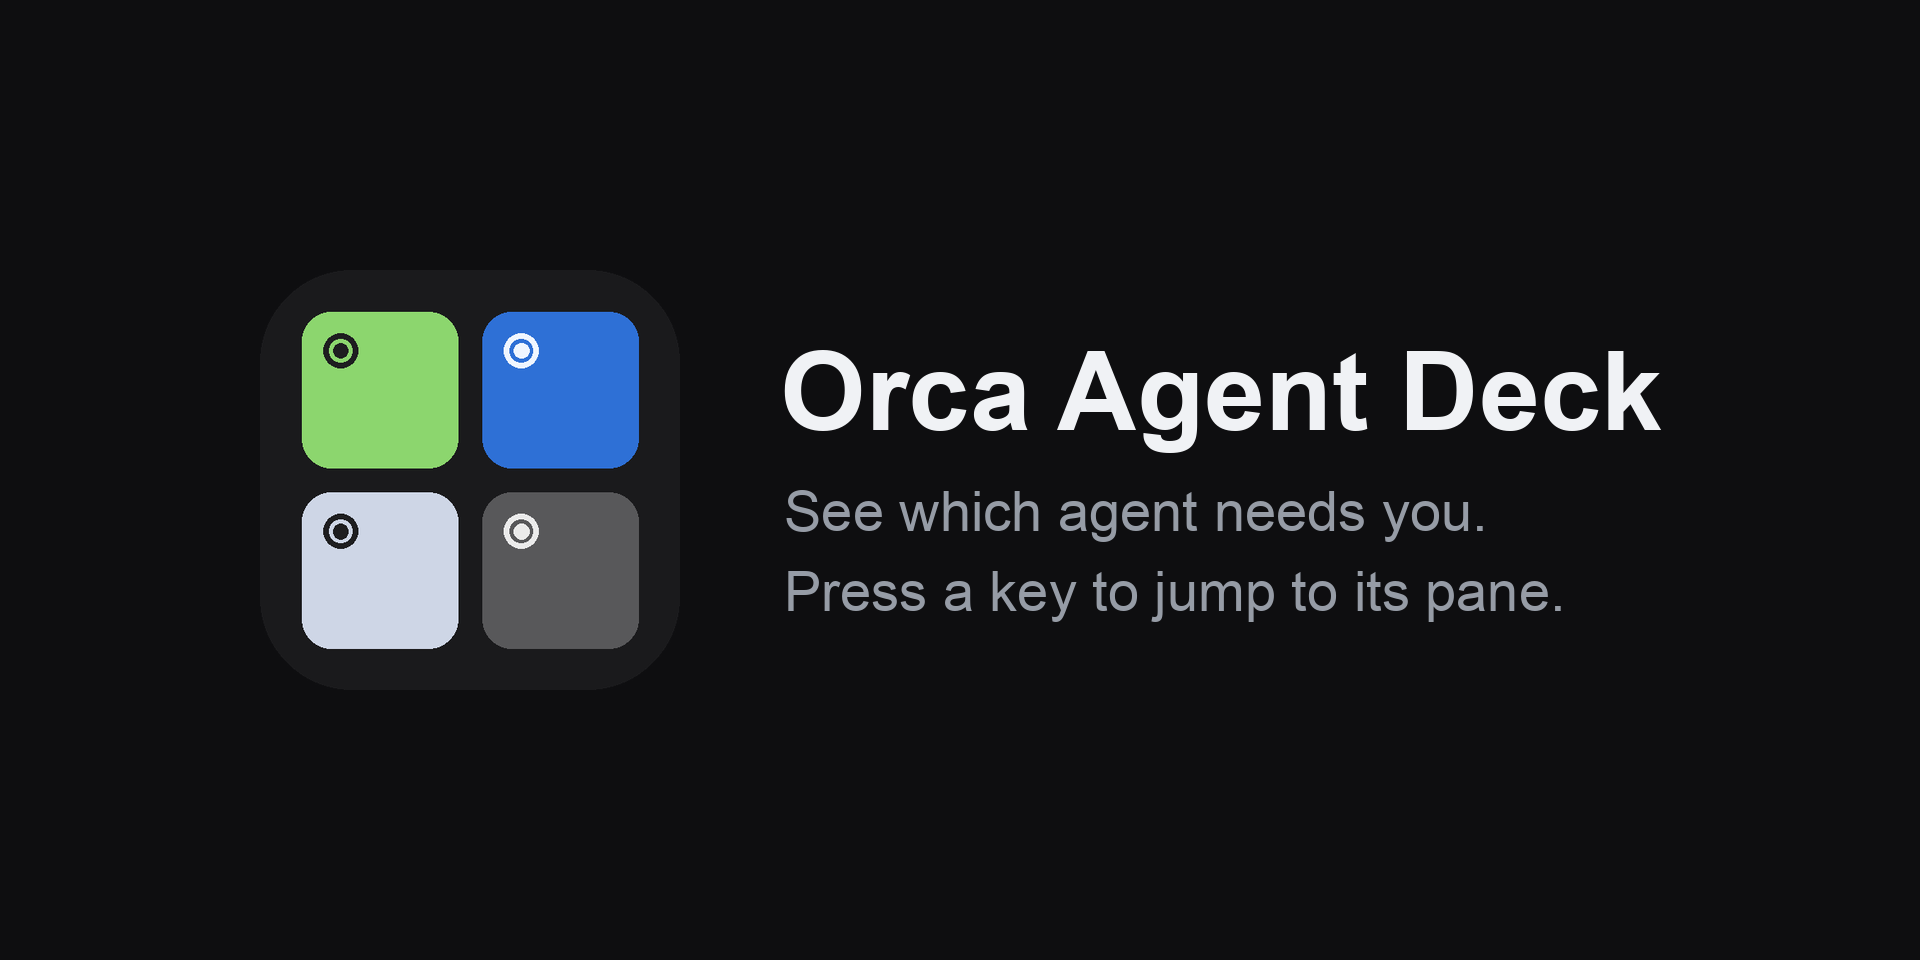
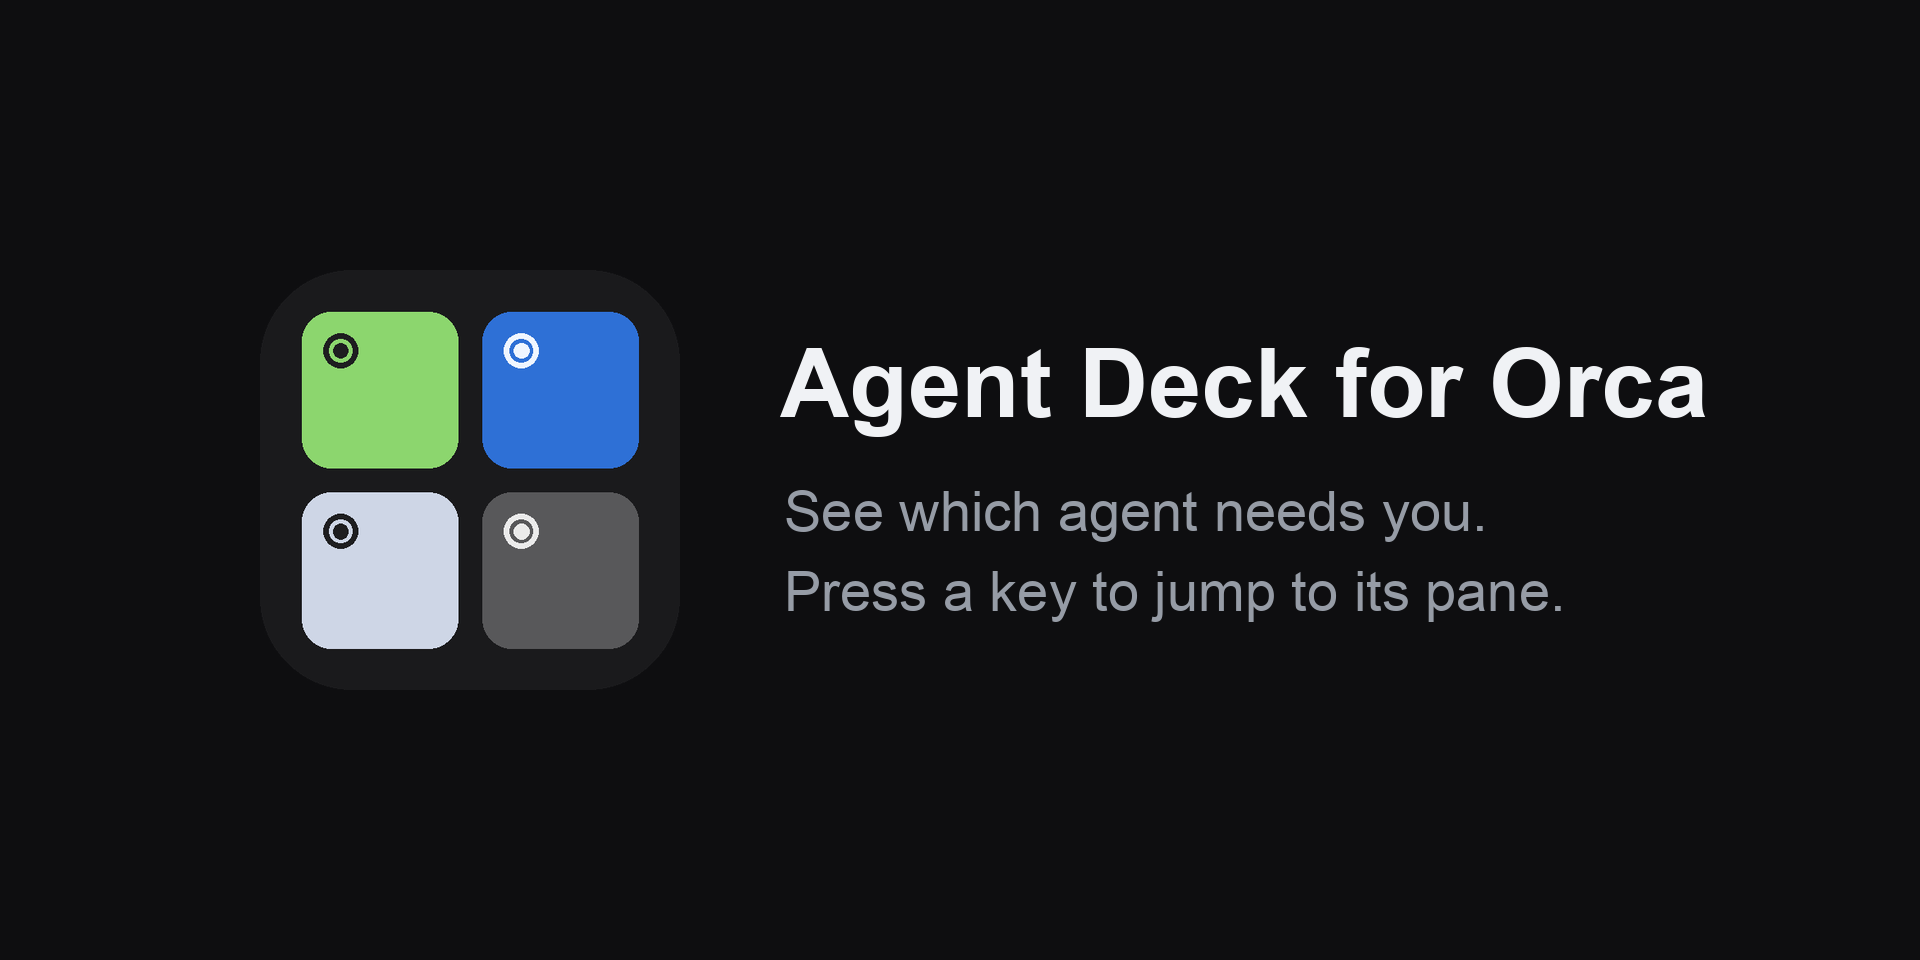
fix: rename to "Agent Deck for Orca"
Orca reserves display names starting with "Orca" for official plugins,
so the directory refused to list "Orca Agent Deck". Plugin ids stay the same.

Changed region(s): [[0.4062, 0.3438, 0.9062, 0.4688]]

diff --git a/packages/core/src/doctor.ts b/packages/core/src/doctor.ts
@@ -119,7 +119,7 @@ export function runChecks(f: DoctorFacts): Check[] {
             id: 'orca-version',
             label: 'Orca version',
             result: 'fail',
-            reason: `Orca ${f.orcaVersion ?? '?'} is older than Orca Agent Deck supports`,
+            reason: `Orca ${f.orcaVersion ?? '?'} is older than Agent Deck for Orca supports`,
             caption: `Orca ${f.orcaVersion ?? ''} too old`.trim(),
             hint: 'Update Orca',
           }
@@ -207,9 +207,9 @@ export function runChecks(f: DoctorFacts): Check[] {
       label: 'Orca plugin',
       result: 'warn',
       reason:
-        'The Orca Agent Deck plugin has not connected; the deck works with slower, polled status',
+        'The Agent Deck for Orca plugin has not connected; the deck works with slower, polled status',
       caption: 'Orca plugin missing',
-      hint: 'Install or enable the Orca Agent Deck plugin in Orca',
+      hint: 'Install or enable the Agent Deck for Orca plugin in Orca',
     });
   } else if (f.orcaPlugin === 'connected' || f.orcaPlugin === 'asleep') {
     checks.push({
@@ -287,7 +287,7 @@ export function runChecks(f: DoctorFacts): Check[] {
               result: 'warn',
               reason: 'No connected device has a Pane slot key on its page',
               caption: 'no pane slots',
-              hint: 'Install the Orca Agent Deck profile, or drag Pane slot keys onto a page',
+              hint: 'Install the Agent Deck for Orca profile, or drag Pane slot keys onto a page',
               fix: { action: 'install-profile', label: 'Install profile' },
             }
           : {

diff --git a/scripts/release.ts b/scripts/release.ts
@@ -109,7 +109,7 @@ function writeNotes(): void {
   mkdirSync(dist, { recursive: true });
   writeFileSync(
     join(dist, 'RELEASE_NOTES.md'),
-    `# Orca Agent Deck ${version}\n\nUnofficial Stream Deck plugin for Orca. Install by double-clicking \`orca-agent-deck-${version}.streamDeckPlugin\`. Verify with \`shasum -a 256 -c SHA256SUMS\`.\n\n${body}\n`,
+    `# Agent Deck for Orca ${version}\n\nUnofficial Stream Deck plugin for Orca. Install by double-clicking \`orca-agent-deck-${version}.streamDeckPlugin\`. Verify with \`shasum -a 256 -c SHA256SUMS\`.\n\n${body}\n`,
   );
   const header =
     '# Changelog\n\nAll notable changes to this project are documented here. Format: [Keep a Changelog](https://keepachangelog.com/en/1.1.0/), versioning: [SemVer](https://semver.org/).\n\n';

diff --git a/packages/adapter-bridge/src/protocol.ts b/packages/adapter-bridge/src/protocol.ts
@@ -3,7 +3,7 @@ import { z } from 'zod';
 /** Bridge protocol v1. Plugin A (in Orca) <-> plugin B (Stream Deck plugin, WebSocket server). */
 export const PROTOCOL_VERSION = 1;
 
-/** Thrown for a message whose major `v` we do not speak; B shows "update Orca Agent Deck plugin". */
+/** Thrown for a message whose major `v` we do not speak; B shows "update Agent Deck for Orca plugin". */
 export class UnsupportedVersionError extends Error {
   readonly received: unknown;
   constructor(received: unknown) {

diff --git a/docs/marketplace/generate.py b/docs/marketplace/generate.py
@@ -44,7 +44,7 @@ def thumbnail(icon):
     d = ImageDraw.Draw(img)
     big = Image.open(SRC / "icon.png").convert("RGBA").resize((420, 420), Image.LANCZOS)
     img.paste(big, (260, 270), big)
-    d.text((780, 330), "Orca Agent Deck", font=font(BOLD, 110), fill=FG)
+    d.text((780, 330), "Agent Deck for Orca", font=font(BOLD, 96), fill=FG)
     d.text((784, 480), "See which agent needs you.", font=font(REGULAR, 56), fill=MUTED)
     d.text((784, 560), "Press a key to jump to its pane.", font=font(REGULAR, 56), fill=MUTED)
     img.save(OUT / "thumbnail-1920x960.png")

diff --git a/docs/install.md b/docs/install.md
@@ -1,4 +1,4 @@
-# Install Orca Agent Deck from the release packages
+# Install Agent Deck for Orca from the release packages
 
 Nothing here needs the repo; only the diagnostics script needs Node 18 or newer.
 
@@ -6,7 +6,7 @@ Nothing here needs the repo; only the diagnostics script needs Node 18 or newer.
 
 About 5 minutes. You need Orca, the Elgato Stream Deck app (or OpenDeck on Linux) and a Stream Deck (see "You need" below).
 
-1. **Stream Deck plugin.** Download `orca-agent-deck-<version>.streamDeckPlugin` from the [latest GitHub release](https://github.com/1am/orca-agent-deck/releases/latest) and double-click it. The Elgato app installs it. On Linux, install the same file from OpenDeck's plugin manager. Drag the Pane, Status and Attention actions from the "Orca Agent Deck" category onto keys.
+1. **Stream Deck plugin.** Download `orca-agent-deck-<version>.streamDeckPlugin` from the [latest GitHub release](https://github.com/1am/orca-agent-deck/releases/latest) and double-click it. The Elgato app installs it. On Linux, install the same file from OpenDeck's plugin manager. Drag the Pane, Status and Attention actions from the "Agent Deck for Orca" category onto keys.
 2. **Orca plugin.** With Orca running, run this in a terminal:
 
    ```sh
@@ -16,14 +16,14 @@ About 5 minutes. You need Orca, the Elgato Stream Deck app (or OpenDeck on Linux
    On Linux use `xdg-open` instead of `open`. Orca opens the plugin page. Read and accept the access consent: the plugin runs its own code, reads agent status and workspaces, and stores its own data. Orca updates it from the same catalog.
 
    Without the terminal: in Orca go to Settings, Plugins, Install from Git, and paste `https://github.com/1am/orca-agent-deck`. Orca installs the newest release tag.
-3. In Orca open the command palette and run "Orca Agent Deck: Show status".
+3. In Orca open the command palette and run "Agent Deck: Show status".
 4. Look at the Status key on the deck. Green "OK" with "live" and the Orca version means everything is connected. Anything else shows a short caption: see [troubleshooting](troubleshooting.md).
 5. Start an agent in an Orca pane. To pin the pane you are in to a key, hold a free Pane key (about 1 second). To pick a pane from a list, or to assign a pane on a paired server, use the key's settings in the Elgato app.
 6. Press a Pane key to focus that pane in Orca.
 
 ### More agents than keys
 
-A plugin cannot change the page of a Stream Deck profile, so Orca Agent Deck has no page keys of its own. Use the Elgato app's built-in Page or Folder navigation keys to add pages. The Attention key counts every pane that needs you, on any page, and adds `+N` for those that are on no key at all, so an urgent pane on another page is never hidden. Press the Attention key to focus the most urgent pane.
+A plugin cannot change the page of a Stream Deck profile, so Agent Deck for Orca has no page keys of its own. Use the Elgato app's built-in Page or Folder navigation keys to add pages. The Attention key counts every pane that needs you, on any page, and adds `+N` for those that are on no key at all, so an urgent pane on another page is never hidden. Press the Attention key to focus the most urgent pane.
 
 Versions and platforms that have been tested: [compatibility](compatibility.md).
 
@@ -33,7 +33,7 @@ Versions and platforms that have been tested: [compatibility](compatibility.md).
 - The Elgato Stream Deck app 7.1 or newer (macOS, Windows) or [OpenDeck](https://github.com/nekename/opendeck) (Linux), and a Stream Deck.
 - Linux only, to raise the Orca window on press: `xdotool` or `wmctrl` (`sudo apt install xdotool`), under an X11 session. Not available on Wayland.
 - macOS 13 or newer, Windows 10 or newer, or Linux (tested on Ubuntu 22.04). Pane raising on press works on macOS, and on Linux under X11 with `xdotool` or `wmctrl` installed.
-- Orca notifications can stay off. Orca Agent Deck does not use them.
+- Orca notifications can stay off. Agent Deck for Orca does not use them.
 
 ## Release files
 
@@ -50,7 +50,7 @@ Unzip `orca-agent-deck-orca-plugin-<version>.zip` into a folder you keep, since 
 
 ## Permissions
 
-Orca Agent Deck needs no macOS permission of its own. It reads Orca through the local runtime socket, finds the `orca` command at fixed paths (no login shell), and raises the Orca window with `open -b` (macOS), which needs nothing. You should see no Files and Folders, Automation, Accessibility or Local Network dialog from it. If you do, please report it with the dialog text.
+Agent Deck for Orca needs no macOS permission of its own. It reads Orca through the local runtime socket, finds the `orca` command at fixed paths (no login shell), and raises the Orca window with `open -b` (macOS), which needs nothing. You should see no Files and Folders, Automation, Accessibility or Local Network dialog from it. If you do, please report it with the dialog text.
 
 ## tmux
 
@@ -58,10 +58,10 @@ If your agents run inside tmux, read `docs/working-with-tmux.md` first. The refe
 
 ## Logs
 
-- Orca plugin: `~/.orca-deck/plugin-a.log`, or `orca plugin logs 1am.agent-deck`. "Orca Agent Deck: Show status" shows a one-line summary as a toast and writes the details to the log. Orca's Logs pane in the plugin settings is read once when opened and does not refresh.
+- Orca plugin: `~/.orca-deck/plugin-a.log`, or `orca plugin logs 1am.agent-deck`. "Agent Deck: Show status" shows a one-line summary as a toast and writes the details to the log. Orca's Logs pane in the plugin settings is read once when opened and does not refresh.
 - Stream Deck plugin: `~/Library/Application Support/com.elgato.StreamDeck/Plugins/pl.1am.orca-agent-deck.sdPlugin/logs/` (`pl.1am.orca-agent-deck.0.log` is the newest). `~/Library/Logs/ElgatoStreamDeck/` holds only the Elgato app's own log.
 - When reporting a problem, run `node collect-diagnostics.mjs` (from the release files; in a clone `pnpm diagnostics`) and attach the file it writes. It collects versions and both plugin logs with tokens, home paths and e-mail addresses removed.
 
 ## Uninstall
 
-Elgato app: Preferences, Plugins, remove Orca Agent Deck. Orca: Settings, Plugins, remove Orca Agent Deck. Delete `~/.orca-deck/` for leftover logs and the bridge discovery file.
+Elgato app: Preferences, Plugins, remove Agent Deck for Orca. Orca: Settings, Plugins, remove Agent Deck for Orca. Delete `~/.orca-deck/` for leftover logs and the bridge discovery file.

diff --git a/Readme.md b/Readme.md
@@ -1,10 +1,10 @@
-# Orca Agent Deck
+# Agent Deck for Orca
 
 **Working with LLMs is like...**
 
 [![Working with LLMs is like...](https://media1.giphy.com/media/vx9YFNa9ePYWLNnh0X/giphy.gif)](https://giphy.com/gifs/texasarchive-1960s-industrial-film-southwestern-bell-telephone-company-vx9YFNa9ePYWLNnh0X)
 
-Here comes Orca Agent Deck which shows the state of your agents and terminals running in [Orca](https://www.onorca.dev) on a Stream Deck, and focuses a pane when you press its key. Easy to look up where and when your attention is needed.
+Here comes Agent Deck for Orca which shows the state of your agents and terminals running in [Orca](https://www.onorca.dev) on a Stream Deck, and focuses a pane when you press its key. Easy to look up where and when your attention is needed.
 
 https://github.com/user-attachments/assets/1dfea071-0276-4011-b159-7916241eb2ca
 
@@ -28,7 +28,7 @@ https://github.com/user-attachments/assets/1dfea071-0276-4011-b159-7916241eb2ca
 - Orca 1.4.245 or newer, with the `orca` shell command registered (Orca: Settings, register CLI).
 - The Elgato Stream Deck app 7.1 or newer (macOS, Windows) or [OpenDeck](https://github.com/nekename/opendeck) (Linux), and a Stream Deck (hardware or Stream Deck Mobile).
 
-Orca Agent Deck has two parts and needs both: a **Stream Deck plugin** (draws the keys, talks to Orca) and a small **Orca plugin** (pushes agent status to the deck as it changes).
+Agent Deck for Orca has two parts and needs both: a **Stream Deck plugin** (draws the keys, talks to Orca) and a small **Orca plugin** (pushes agent status to the deck as it changes).
 
 ## Install from a release
 
@@ -90,7 +90,7 @@ Orca watches every file under a development folder. The Stream Deck plugin write
 
 ## Support
 
-Orca Agent Deck is an independent project. It is not affiliated with or endorsed by Stably (Orca) or Elgato (Stream Deck).
+Agent Deck for Orca is an independent project. It is not affiliated with or endorsed by Stably (Orca) or Elgato (Stream Deck).
 
 Best effort, by one maintainer. Supported: the latest stable Orca and the release before it, on macOS. Upstream Orca limits are listed in [docs/known-issues.md](docs/known-issues.md).
 

diff --git a/docs/troubleshooting.md b/docs/troubleshooting.md
@@ -36,7 +36,7 @@ Find the symptom, check the cause, apply the fix. Status key captions come from 
 ### "Orca plugin missing"
 
 - **Cause.** The Orca plugin has not connected since the Stream Deck plugin started: not installed, disabled, or Orca has not sent it an event yet.
-- **Check.** In Orca run "Orca Agent Deck: Show status", then read `~/.orca-deck/plugin-a.log`. Check Orca Settings, Plugins.
+- **Check.** In Orca run "Agent Deck: Show status", then read `~/.orca-deck/plugin-a.log`. Check Orca Settings, Plugins.
 - **Fix.** Install it (Quick start step 2 in [install.md](install.md)) and enable it. Start or finish a turn in an agent so Orca wakes it. If the Elgato app was restarted after Orca, the plugin reconnects with a backoff of up to 30 s.
 
 ### "Orca plugin outdated"
@@ -65,7 +65,7 @@ Find the symptom, check the cause, apply the fix. Status key captions come from 
 ### Key never turns green
 
 - **Cause.** Green means an agent turn finished. Orca reports no status when its hook variables are missing, typically for agents in a tmux server started outside Orca (stablyai/orca#32293). Green also clears once you press the key or focus the pane in Orca.
-- **Check.** Run "Orca Agent Deck: Show status" and look at the Status key for "tmux env missing". Check in Orca that agent hooks are on for the harness. Run `orca worktree ps --json` and look for the agent.
+- **Check.** Run "Agent Deck: Show status" and look at the Status key for "tmux env missing". Check in Orca that agent hooks are on for the harness. Run `orca worktree ps --json` and look for the agent.
 - **Fix.** [working-with-tmux.md](working-with-tmux.md). A shell pane (no agent) shows "done" only after it has printed continuously for about 8 seconds and then stopped.
 
 ### Shell pane never shows working

diff --git a/docs/bridge-protocol.md b/docs/bridge-protocol.md
@@ -74,7 +74,7 @@ Fields marked `?` are optional, `null` marks nullable. All carry `v` and `type`.
 
 ## Versioning
 
-- `PROTOCOL_VERSION` (`v`) is the major version, currently 1. A message with another `v` throws `UnsupportedVersionError`; B closes the connection with **4002** and logs the received version. The Stream Deck plugin and the Orca plugin are released together; a breaking change bumps `v` and both sides ship in the same release (the Property Inspector shows "Update Orca Agent Deck" when they disagree).
+- `PROTOCOL_VERSION` (`v`) is the major version, currently 1. A message with another `v` throws `UnsupportedVersionError`; B closes the connection with **4002** and logs the received version. The Stream Deck plugin and the Orca plugin are released together; a breaking change bumps `v` and both sides ship in the same release (the Property Inspector shows "Update Agent Deck for Orca" when they disagree).
 - **Adding an optional field needs no bump.** zod objects strip unknown keys, so an old receiver ignores a field it does not know; a new receiver treats the field as optional. Precedent: `agentType` on `agentStatus`. Removing or renaming a field, changing a meaning, or adding a required field is breaking.
 - Changing the handshake is breaking; changing only the transport binding is not.
 

diff --git a/docs/marketplace/description.md b/docs/marketplace/description.md
@@ -1,4 +1,4 @@
-Orca Agent Deck shows the state of the agents and terminals running in Orca on your Stream Deck, and focuses a pane when you press its key. You see at a glance which agent is working, which one has finished and which one needs your attention, without switching windows.
+Agent Deck for Orca shows the state of the agents and terminals running in Orca on your Stream Deck, and focuses a pane when you press its key. You see at a glance which agent is working, which one has finished and which one needs your attention, without switching windows.
 
 Features:
 - Pane keys show each pane's state: working, needs input, awaiting reply, done, error or offline
@@ -13,4 +13,4 @@ Requirements:
 - macOS 13 or newer, Windows 10 or newer, or Linux (tested on Ubuntu 22.04); pane raising on press works on macOS, and on Linux under X11 with xdotool or wmctrl installed. On Linux, install the release package in OpenDeck.
 - The companion Orca plugin, installed separately (setup steps in the plugin's Readme)
 
-Orca Agent Deck is an independent personal project and is not made by Orca or Elgato.
+Agent Deck for Orca is an independent personal project and is not made by Orca or Elgato.

diff --git a/docs/compatibility.md b/docs/compatibility.md
@@ -32,7 +32,7 @@
 
 ## Harnesses
 
-Orca Agent Deck draws what Orca reports, so each harness depends on Orca's agent hooks. Claude Code, Codex and Pi are the ones the deck has pictograms for; others show their state without a harness badge guarantee.
+Agent Deck for Orca draws what Orca reports, so each harness depends on Orca's agent hooks. Claude Code, Codex and Pi are the ones the deck has pictograms for; others show their state without a harness badge guarantee.
 
 | Harness | Reported states | Notes |
 |---|---|---|
@@ -56,7 +56,7 @@ State names follow the colours on the key: working (blue), needs input (amber), 
 
 Filled from the dual-host smoke runs, one row per run.
 
-| Host | Host version | Device | Orca Agent Deck | Result |
+| Host | Host version | Device | Agent Deck for Orca | Result |
 |---|---|---|---|---|
 | Elgato Stream Deck app | 7.4.2 | MK.2 | | not run |
 | Elgato Stream Deck app | 7.4.2 | Neo | 0.2.0 | OK on Windows 11 (Orca 1.4.255): plugin loads, bridge connects, keys render and focus panes |

diff --git a/docs/marketplace/README.md b/docs/marketplace/README.md
@@ -21,4 +21,4 @@ Images for the Maker Console listing. `python3 docs/marketplace/generate.py` reb
 
 ## Listing text
 
-`description.md` is the Maker Console description: 959 characters (limit 250 to 1500), and its first paragraph is 269 characters of plain text. The product name "Orca Agent Deck" is 15 characters (limit 30) and has no "Plugin" suffix. Whether the name is free on the Marketplace has not been checked: search the Marketplace before submitting.
+`description.md` is the Maker Console description: 967 characters (limit 250 to 1500), and its first paragraph is 273 characters of plain text. The product name "Agent Deck for Orca" is 19 characters (limit 30) and has no "Plugin" suffix. Whether the name is free on the Marketplace has not been checked: search the Marketplace before submitting.

diff --git a/CHANGELOG.md b/CHANGELOG.md
@@ -2,6 +2,14 @@
 
 All notable changes to this project are documented here. Format: [Keep a Changelog](https://keepachangelog.com/en/1.1.0/), versioning: [SemVer](https://semver.org/).
 
+## [0.2.1] - 2026-11-11
+
+Renamed to Agent Deck for Orca.
+
+### Changed
+
+- The plugin is now called "Agent Deck for Orca". Orca's plugin directory reserves display names that start with "Orca" for official plugins, so it did not list "Orca Agent Deck". The Stream Deck actions move to the "Agent Deck for Orca" category, and the Orca commands are now "Agent Deck: Map pane to key", "Agent Deck: Unmap pane" and "Agent Deck: Show status". The plugin ids do not change, so existing installs update in place and keep their key mappings.
+
 ## [0.2.0] - 2026-11-10
 
 Windows and Linux support.
